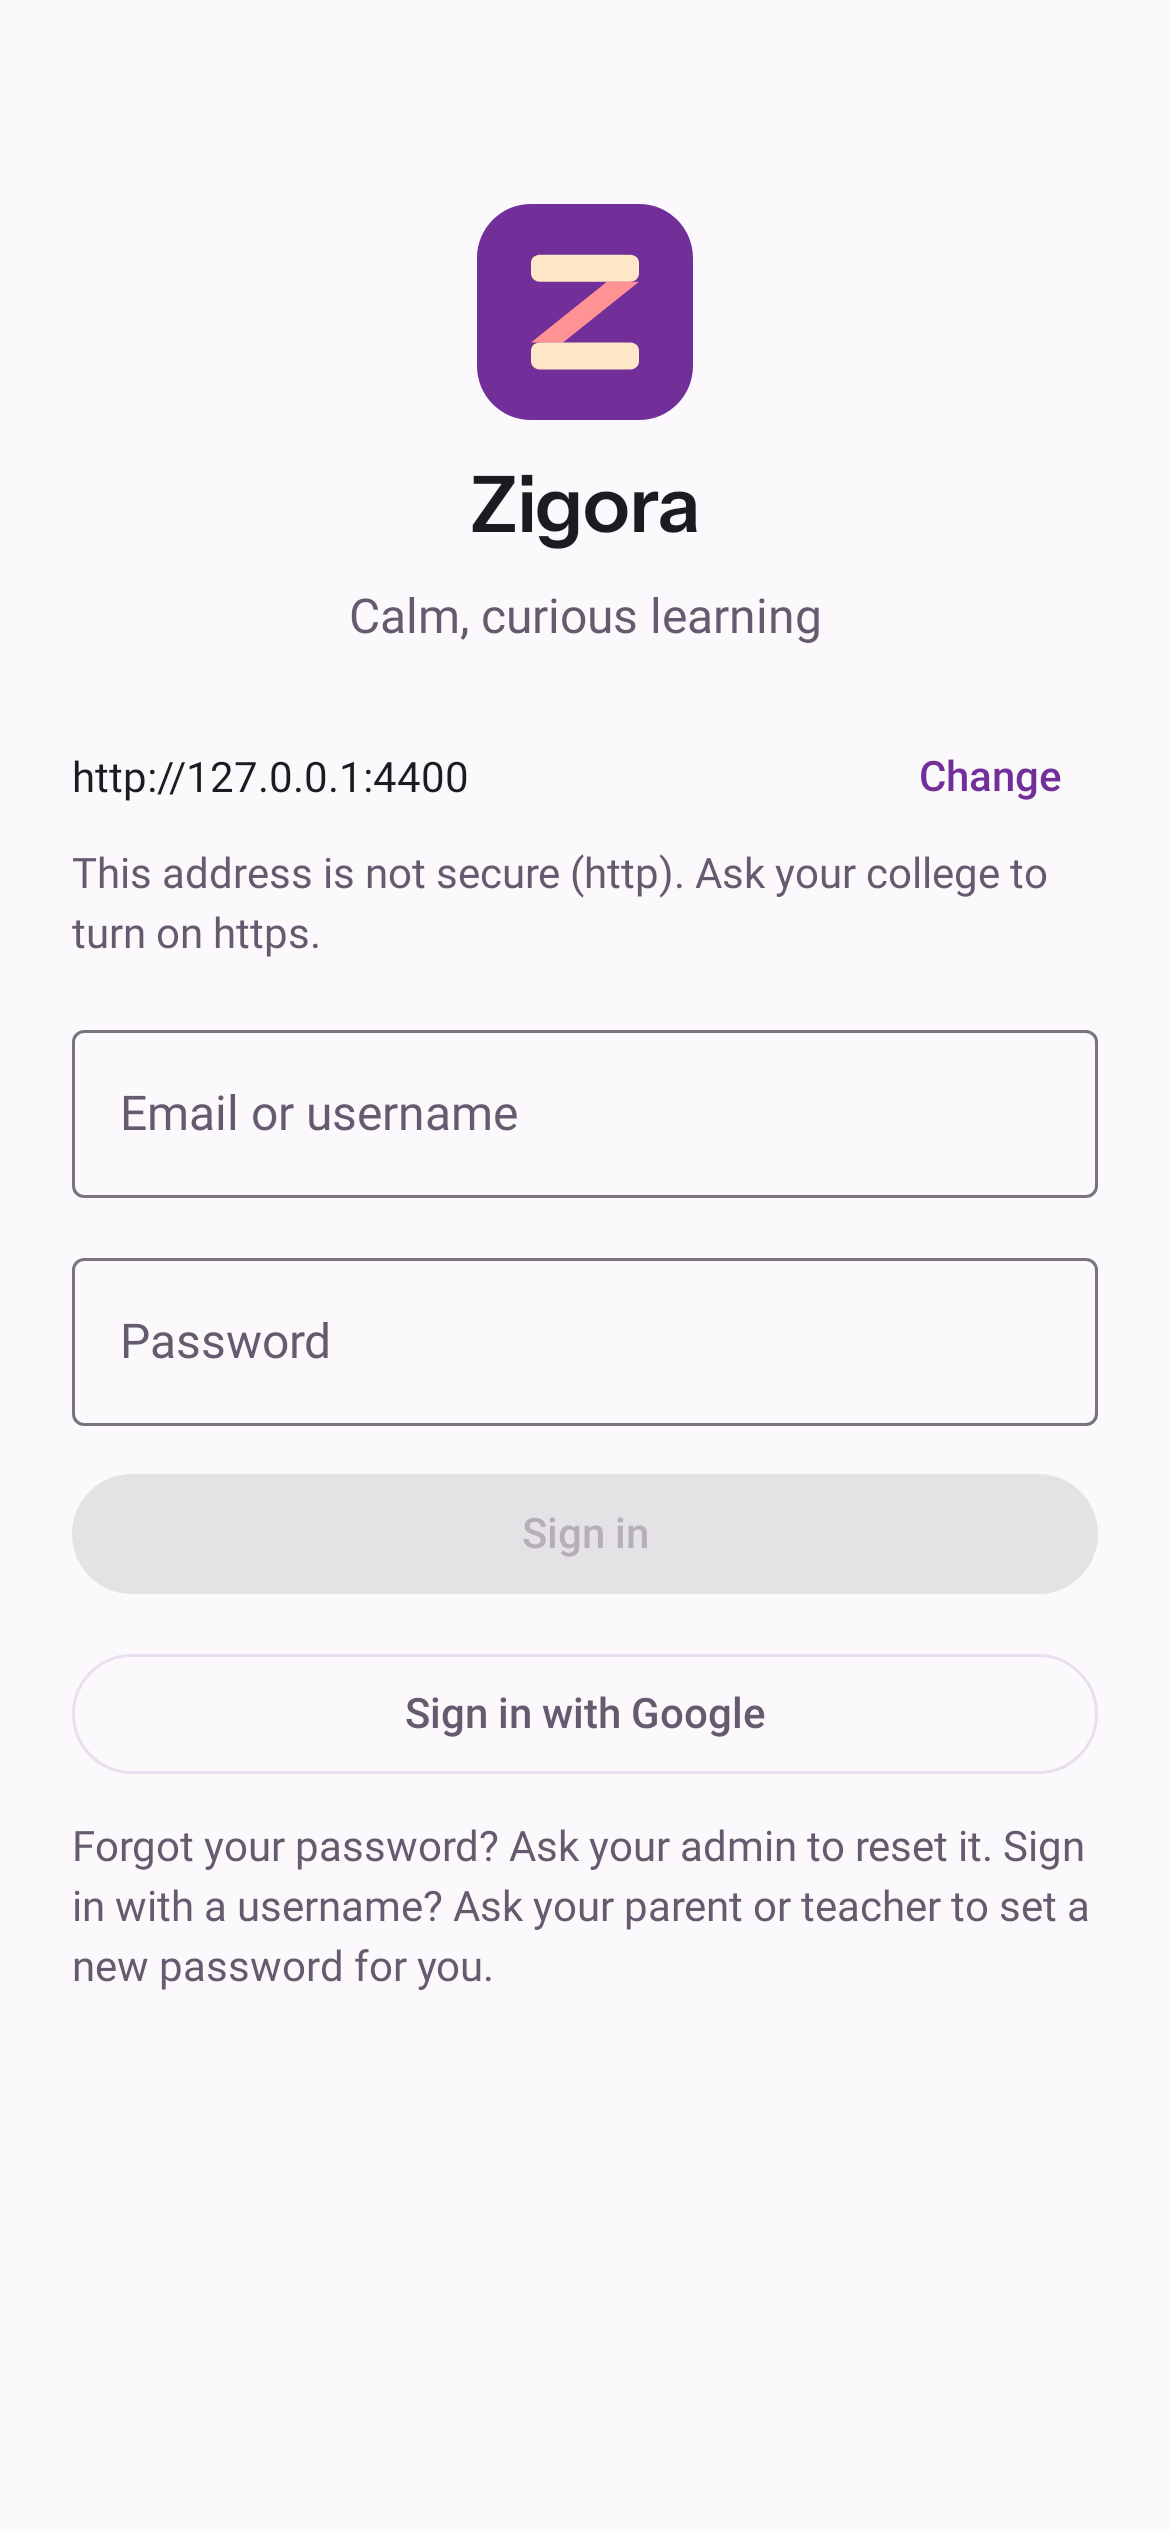
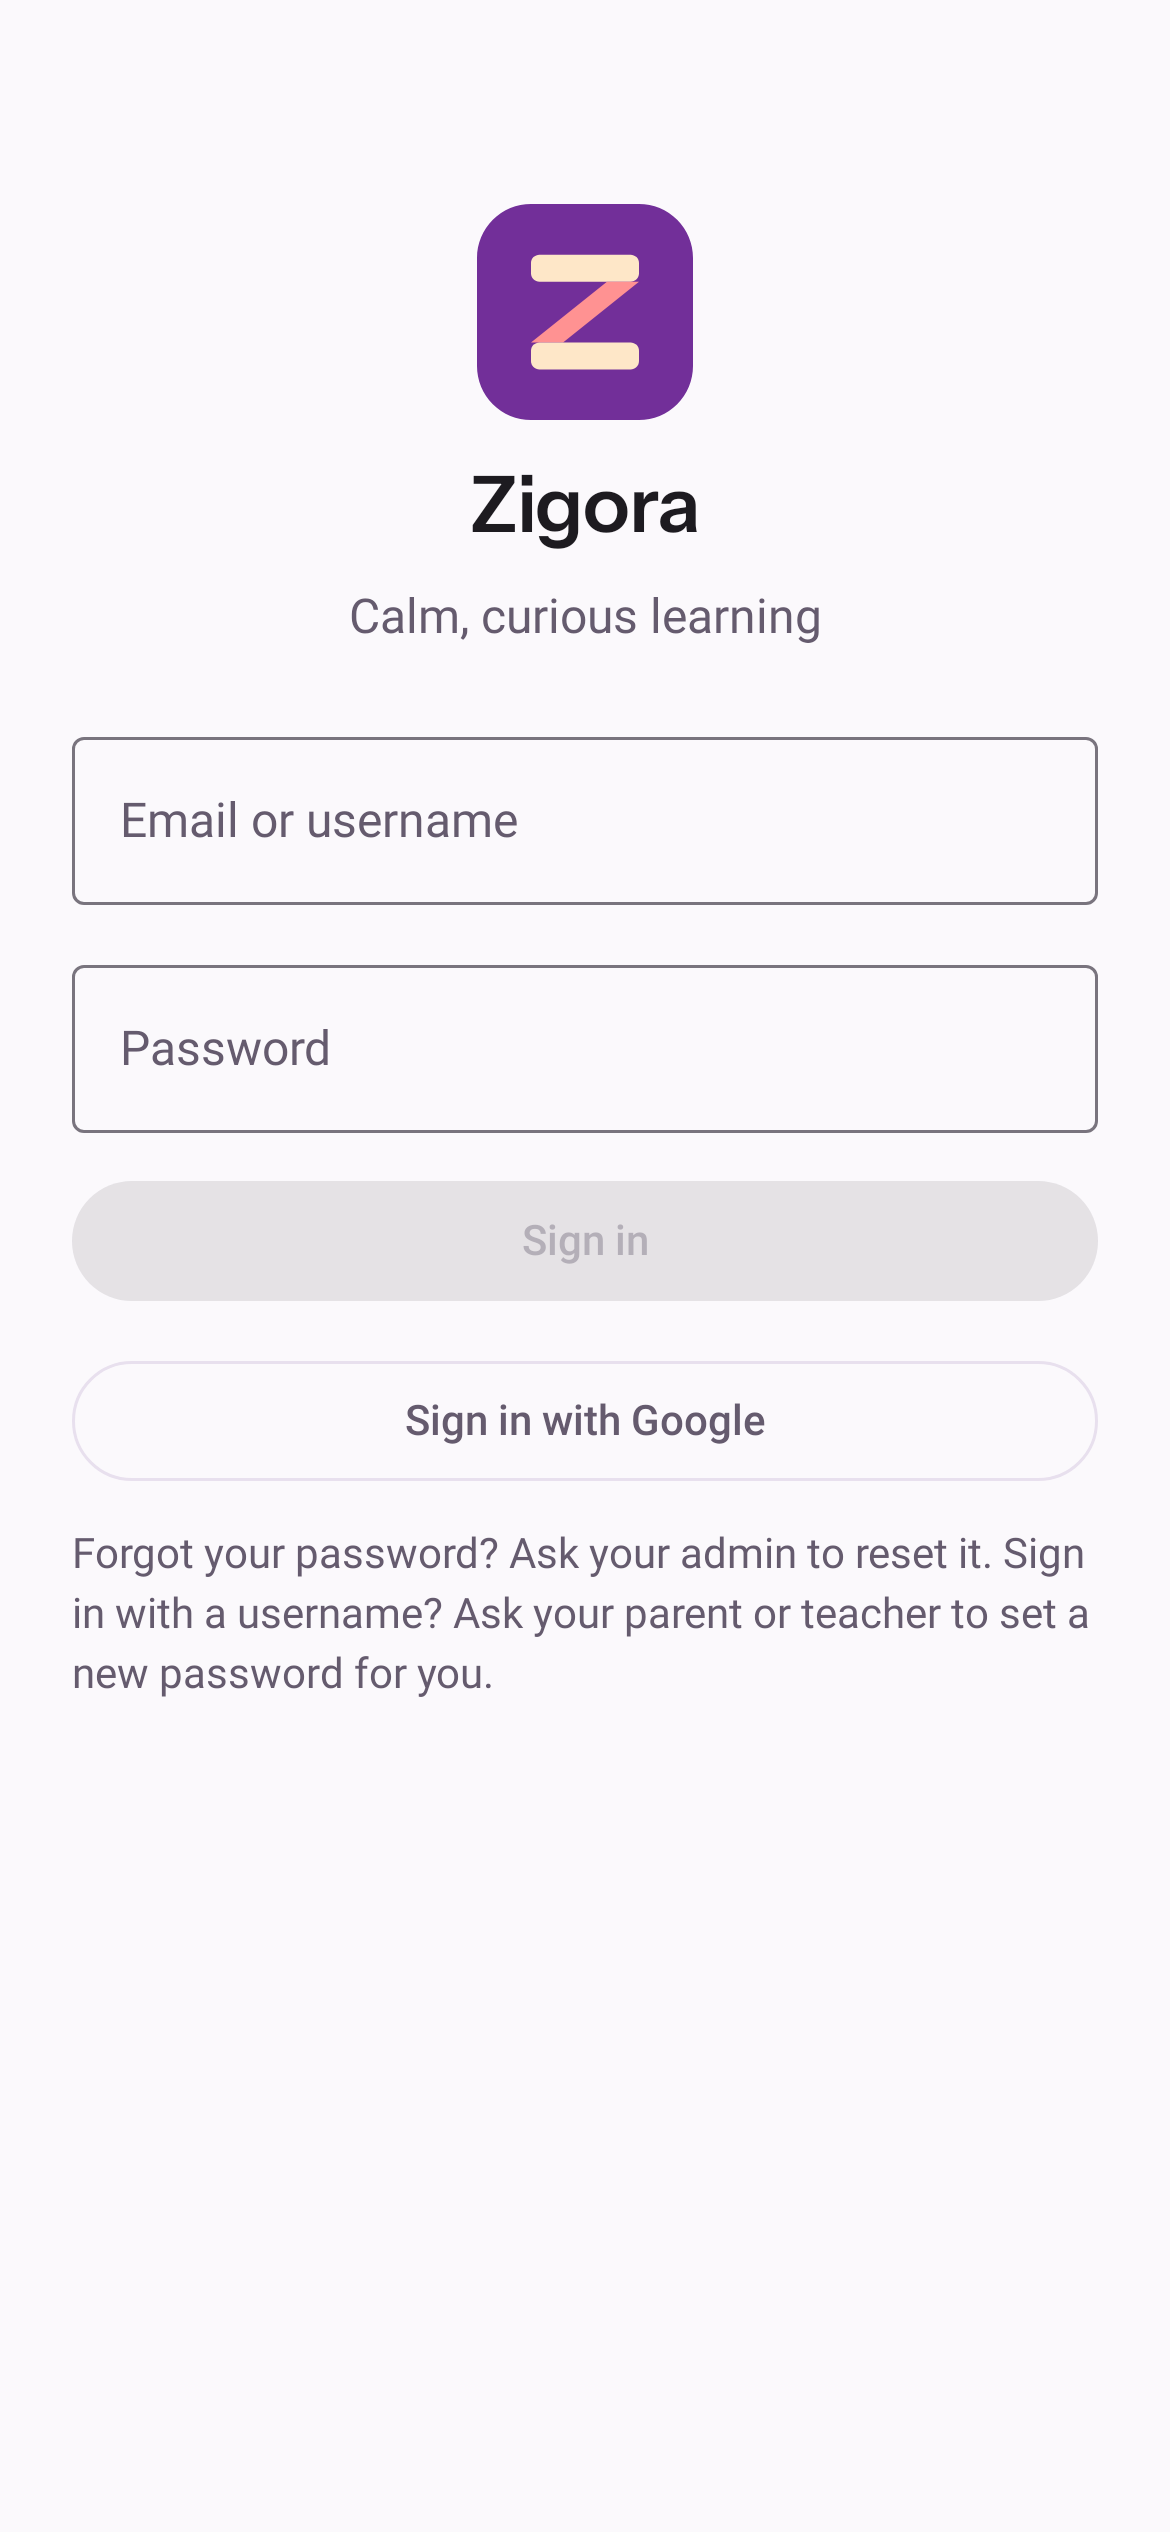
Promo: Sign in with Google and MCQ practice scenes
Two new scenes (01 Sign in, 05 Practice) with English, Tamil and Arabic
captions; the video is now 56.6 s. capture.js uses the shots the Promo shots
workflow committed (.promo/shots) when they are there. The sign-in shot has the
demo server's address line and its "not secure" note cut out.

Claude-Session: https://claude.ai/code/session_01PYz3wqSPuDqcEJiAhm8xet

diff --git a/.promo/captions.js b/.promo/captions.js
@@ -10,38 +10,44 @@ window.LANGUAGES = {
 window.CAPTIONS = {
   en: {
     tagline: 'Learn your syllabus\nin short, curious steps.',
+    signin: 'Sign in with Google.\nOne tap, and you\'re in.',
     today: 'One calm session\na day.',
     gist: 'A 30-second gist.\nThen go as deep\nas you like.',
     check: 'Check yourself.\nNo pressure.',
+    mcq: 'Practice sets.\nSee what to revise.',
     keep: 'Highlight it.\nKeep it.\nRevise from it.',
     own: 'Bring your\nown notes too.',
     lang: 'In English, Tamil\nand Arabic.',
     endLine: 'Zigora Intelligence\nfor Android.',
     byline: 'AN APP BY',
-    chips: ['TODAY', 'LEARN', 'CHECK', 'KEEP', 'YOUR NOTES', 'YOUR LANGUAGE'],
+    chips: ['SIGN IN', 'TODAY', 'LEARN', 'CHECK', 'PRACTICE', 'KEEP', 'YOUR NOTES', 'YOUR LANGUAGE'],
   },
   ta: {
     tagline: 'உங்கள் பாடத்திட்டத்தை\nசிறிய, ஆர்வமூட்டும் படிகளில்.',
+    signin: 'Google மூலம் உள்நுழையுங்கள்.\nஒரே தட்டலில்.',
     today: 'நாளுக்கு ஒரு\nஅமைதியான அமர்வு.',
     gist: '30 வினாடிச் சுருக்கம்.\nவிரும்பும் அளவு ஆழமாக.',
     check: 'உங்களைச் சோதியுங்கள்.\nஅழுத்தம் இல்லை.',
+    mcq: 'பயிற்சித் தொகுப்புகள்.\nஎதை மறுபார்வை செய்வது எனப் பாருங்கள்.',
     keep: 'சிறப்பியுங்கள்.\nவைத்திருங்கள்.\nமறுபார்வை செய்யுங்கள்.',
     own: 'உங்கள் சொந்தக்\nகுறிப்புகளும்.',
     lang: 'ஆங்கிலம், தமிழ்,\nஅரபு மொழிகளில்.',
     endLine: 'ஆண்ட்ராய்டுக்கான\nஜிகோரா இன்டெலிஜென்ஸ்.',
     byline: 'உருவாக்கியது',
-    chips: ['இன்று', 'கற்க', 'சோதிக்க', 'சேமிக்க', 'உங்கள் குறிப்புகள்', 'உங்கள் மொழி'],
+    chips: ['உள்நுழைய', 'இன்று', 'கற்க', 'சோதிக்க', 'பயிற்சி', 'சேமிக்க', 'உங்கள் குறிப்புகள்', 'உங்கள் மொழி'],
   },
   ar: {
     tagline: 'تعلّم منهجك في\nخطوات قصيرة ومثيرة للفضول.',
+    signin: 'سجّل الدخول عبر Google.\nبلمسة واحدة.',
     today: 'جلسة هادئة\nواحدة كل يوم.',
     gist: 'خلاصة في ٣٠ ثانية.\nثم تعمّق كما تشاء.',
     check: 'اختبر نفسك.\nبلا ضغط.',
+    mcq: 'مجموعات تدريب.\nواعرف ما تحتاج مراجعته.',
     keep: 'ظلّل. احتفظ.\nراجع.',
     own: 'وملاحظاتك\nالخاصة أيضًا.',
     lang: 'بالإنجليزية والتاميلية\nوالعربية.',
     endLine: 'زيغورا إنتليجنس\nلأندرويد.',
     byline: 'تطبيق من',
-    chips: ['اليوم', 'تعلّم', 'اختبر', 'احتفظ', 'ملاحظاتك', 'لغتك'],
+    chips: ['الدخول', 'اليوم', 'تعلّم', 'اختبر', 'تدرّب', 'احتفظ', 'ملاحظاتك', 'لغتك'],
   },
 };

diff --git a/.promo/scenes.js b/.promo/scenes.js
@@ -1,9 +1,11 @@
 // Zigora's promo: the Android app's own screens (PromoTest). Shots are the names capture.js saves; captions are keys in captions.js.
 window.SCENES = [
   { type: 'logo', duration: 4.6, bg: 'ground', caption: 'tagline' },
+  { type: 'phones', duration: 5.4, bg: 'accent', caption: 'signin', shots: ['signin'], alt: 'home', squares: true },
   { type: 'phones', duration: 5.8, bg: 'ground', caption: 'today', shots: ['home'], alt: 'course' },
   { type: 'phones', duration: 6.0, bg: 'accent', caption: 'gist', shots: ['topic', 'step'], reveal: true, squares: true },
   { type: 'phones', duration: 5.6, bg: 'ink', caption: 'check', shots: ['quiz', 'attempt'], squares: true },
+  { type: 'phones', duration: 6.0, bg: 'pop', caption: 'mcq', shots: ['mcq-set', 'mcq-result'], reveal: true },
   { type: 'phones', duration: 5.8, bg: 'ground', caption: 'keep', shots: ['highlights', 'revision'] },
   { type: 'phones', duration: 5.4, bg: 'pop', caption: 'own', shots: ['build'], alt: 'progress' },
   { type: 'phones', duration: 5.8, bg: 'accent', caption: 'lang', shots: ['home-ta', 'topic-ar'], squares: true },

diff --git a/.promo/capture.js b/.promo/capture.js
@@ -13,6 +13,15 @@ const ROOT = process.cwd();
 const MOBILE = path.join(ROOT, 'mobile');
 const run = (cmd, args, cwd) => execFileSync(cmd, args, { cwd, stdio: 'inherit' });
 
+// shots the Promo shots workflow committed (.promo/shots/): use them, so the video can be made where Android can't build. PROMO_FRESH=1 captures anew.
+const SAVED = path.join(ROOT, '.promo/shots');
+if (!process.env.PROMO_FRESH && fs.existsSync(SAVED) && fs.readdirSync(SAVED).some((f) => f.endsWith('.png'))) {
+  const saved = fs.readdirSync(SAVED).filter((f) => f.endsWith('.png'));
+  for (const f of saved) fs.copyFileSync(path.join(SAVED, f), path.join(OUT, `${LANG}-${f}`));
+  console.log(`${LANG}: ${saved.length} Android screens from .promo/shots (made by the Promo shots workflow)`);
+  process.exit(0);
+}
+
 // the app packs the web's reader page; build it if this checkout hasn't yet
 if (!fs.existsSync(path.join(ROOT, 'frontend/dist-reader/reader/reader.html'))) {
   if (!fs.existsSync(path.join(ROOT, 'frontend/node_modules'))) run('npm', ['ci', '--no-audit', '--no-fund'], path.join(ROOT, 'frontend'));
